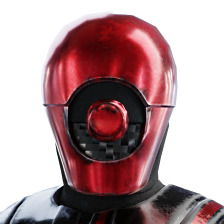
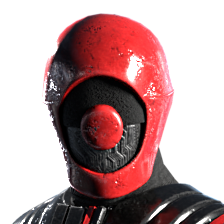
more changelog stuff

diff --git a/docs/community-updates/v10.md b/docs/community-updates/v10.md
@@ -1209,6 +1209,9 @@ ___
             - Revamped as a meter which will drain while any ability is in use and replenish when none are.
             - All abilities can be used together at the cost of increased drain rate.
             - All abilities can be used without requiring the meter to fully replenish.
+        - Updated appearance assets.
+        - Updated weapon assets.
+        - Updated portrait.
     - Gungan Warrior
         - COMBAT SHIELD
             - Replaced effects.
@@ -1276,8 +1279,11 @@ ___
           - While not attacking, the baton will be retracted and the lightning disabled.
           - Added activation, looping, and deactivation sounds for the attack sequence.
           - Updated impact and swing sounds.
+        - Evading performs a dodge roll instead of a dash.
+        - Autoplayers are significantly more aggressive with the baton while in melee range.
         - Added Executioner appearance.
         - Updated frontend pose.
+        - Updated portrait.
     - Royal Guard
         - T-21
             - Stats rebalanced to match the standard T-21 of the Heavy.
@@ -1293,8 +1299,8 @@ ___
         - EMPEROR’S WILL
             - Moved to the Right Ability category.
             - Added start animation.
+        - Updated appearance assets.
         - Added Light Armor and Shadow Guard appearances.
-        - Updated Ceremonial Robes appearance.
         - Default appearance named Ceremonial Robes.
     - Shock Trooper
         - BACTA GRENADE
